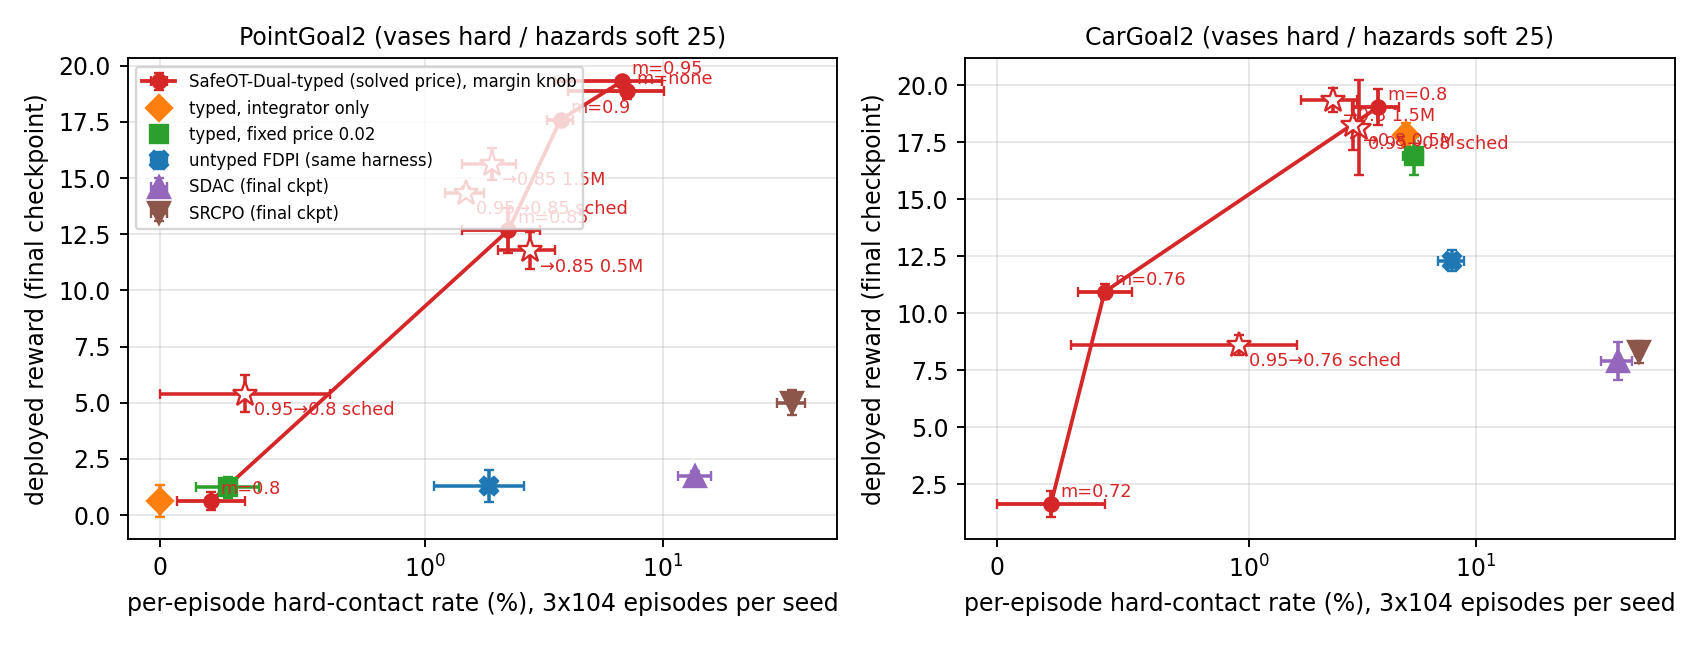
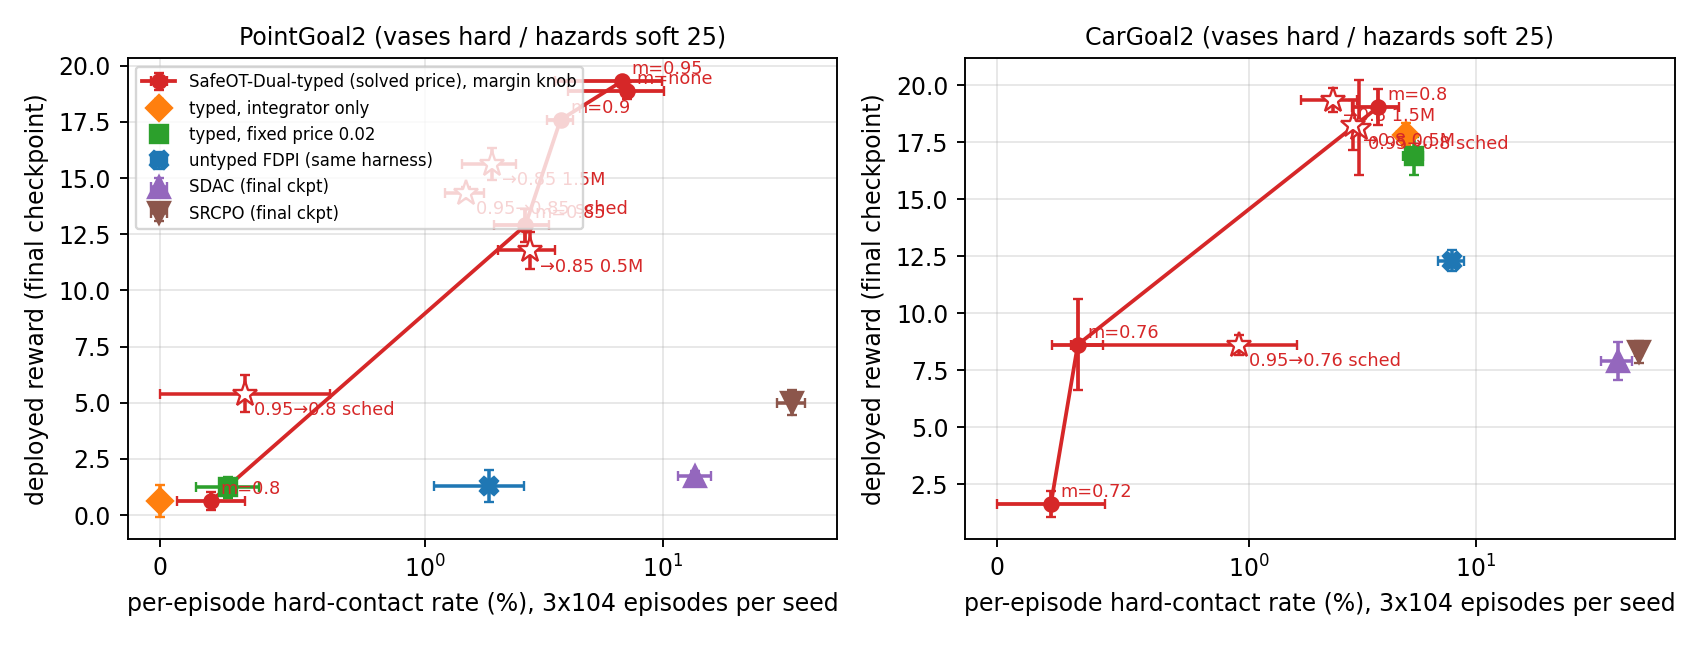
fix(dashboard): align SafeOT claims with verified repair evidence
Refs: T-1484

diff --git a/sotd_gap_plan.md b/sotd_gap_plan.md
@@ -1,4 +1,4 @@
-# SafeOT-Dual 差距与解决办法（2026-09-08T21:51:11+08:00）
+# SafeOT-Dual 差距与解决办法（2026-09-08T22:22:06+08:00）
 
 ## G1 统一多类 SafeRL：一个旋钮一条前沿
 - 验收：✓ PG1 clip 曲线 ≥5 点且 ε 曲线 ≥4 点（n≥3）；✓ CG1 clip 曲线 ≥5 点且 ε 曲线 ≥4 点（n≥3）；✓ PB1 clip 曲线 ≥5 点且 ε 曲线 ≥4 点（n≥3）；✓ 速度套件 ≥3 任务有 clip 曲线 ≥3 点；✓ 三导航任务的完整旋钮曲线另有 ≥3 种子终档评测
@@ -18,11 +18,11 @@
 
 ## G3 异构多约束（硬 + 软）上的 SOTA
 - 验收：✓ 探索性均值比较：CG2 高于历史 SDAC 回报且硬违规率更低；✓ 探索性均值比较：PG2 高于历史 SRCPO 回报且硬违规率更低；✓ PG2 终档观测目标：回报 ≥10 且硬泄漏 ≤2%，且各种子软预算满足；✗ CG2 终档观测目标：硬泄漏 ≤0.5% 且回报 ≥12，且各种子软预算满足；✗ 关键行 n≥5（PG2 m0.85、CG2 m0.76）；✗ PG2/CG2 高回报点逐种子硬风险 95% 上界也低于目标；✗ SOTA 结论有同协议基线、软预算与置信区间的完整复核
-- 差距：已有候选改善，SOTA 完整复核仍待完成。PG2 筛选点 15.6 @ 1.9% 观测硬违规率；CG2 低违规侧筛选点 10.9 @ 0.4%。观测均值达标不等于逐种子风险上界达标。
+- 差距：已有候选改善，SOTA 完整复核仍待完成。PG2 筛选点 15.6 @ 1.9% 观测硬违规率；CG2 低违规侧筛选点 8.6 @ 0.3%。观测均值达标不等于逐种子风险上界达标。
 - 原因：雷达边距阈值是单一旋钮：阈值紧则泄漏低但回报掉，阈值松则相反；固定阈值拿不到两头。
 - 解决办法：边距日程（0.95 起、前 0.5–1.5M 步线性收紧到目标阈值）：44 个 run 在 mainskill GPU 0/3/5/7（含 PG2 0.82/0.83、CG2 0.77/0.78 对冲网格），已完成 38；本机 GPU 补 PG2 m0.85/0.9、CG2 m0.76/0.72、prox40/prox20 的种子 4-5（n=5）。DONE 后自动严格评测（312 集/种子）。
 - 预计：日程 run 判决 09-08 晚—09-09 早；种子 4-5 09-09 早。
-- 证据：CG2 lp 19.0 @ 3.7% (n=5) vs SDAC 7.9 @ 42.0%；PG2 m0.85 12.7 @ 2.2% (n=3) vs SRCPO 5.0 @ 35.0%
+- 证据：CG2 lp 19.0 @ 3.7% (n=5) vs SDAC 7.9 @ 42.0%；PG2 m0.85 12.9 @ 2.6% (n=4) vs SRCPO 5.0 @ 35.0%
 
 ## G4 SafeVLA 范式内的安全学习（价格换源 vs PPO-Lag）
 - 验收：✗ seed 0 两臂有新鲜进程与训练进展记录；✓ seed 0 两臂 ≥1M 总步数；✗ seed 0 两臂完成 20万预热 + 200万 RL，终档存在；✗ 第 2 个种子两臂 ≥1M 总步数；✗ 配对终档评测（同种子、同单位）
@@ -50,9 +50,9 @@
 | G2 | PointButton1 10M（5090） | done | 12/12 完成，0 有未完成训练日志，0 尚无进展；进程存活未由本表核验 | 完成 |
 | G3 | typed 边距日程对冲网格（mainskill） | done | 12/12 完成，0 有未完成训练日志，0 尚无进展；进程存活未由本表核验 | 完成 |
 | G3 | typed 边距日程（自 30109 迁入）（mainskill） | run | 26/30 完成，0 有未完成训练日志，4 尚无进展；进程存活未由本表核验 | 产物进度粗估 12 h，需资源可用 |
-| G3 | typed 前沿行种子 4-5（30109） | run | 6/8 完成，2 有未完成训练日志，0 尚无进展；进程存活未由本表核验 | 产物进度粗估 1 h，需资源可用 |
-| G3/G5 | typed 接近预算点种子 4-5（30109） | run | 2/4 完成，2 有未完成训练日志，0 尚无进展；进程存活未由本表核验 | 产物进度粗估 1 h，需资源可用 |
-| G3/G5 | 边距日程 × FDPI pf：1–2 种子配置筛选（30109） | run | 0/6 完成，6 有未完成训练日志，0 尚无进展；进程存活未由本表核验 | 产物进度粗估 11 h，需资源可用 |
+| G3 | typed 前沿行种子 4-5（30109） | run | 6/8 完成，2 有未完成训练日志，0 尚无进展；进程存活未由本表核验 | 产物进度粗估 0 h，需资源可用 |
+| G3/G5 | typed 接近预算点种子 4-5（30109） | run | 2/4 完成，2 有未完成训练日志，0 尚无进展；进程存活未由本表核验 | 产物进度粗估 0 h，需资源可用 |
+| G3/G5 | 边距日程 × FDPI pf：1–2 种子配置筛选（30109） | run | 0/6 完成，6 有未完成训练日志，0 尚无进展；进程存活未由本表核验 | 产物进度粗估 10 h，需资源可用 |
 | G4 | SafeVLA 两臂 × 2 种子（mainskill） | run | armA_ppolag_s0 2.01M 总步数 [训练中]（训练日志近10窗口的集均成本 0.81 / 成功率 0.84）；armA_ppolag_s1 0.00M 总步数 [失败]；armB_sotd_s0 1.93M 总步数 [失败]（训练日志近10窗口的集均成本 0.99 / 成功率 0.87）；armB_sotd_s1 0.00M 总步数 [失败] | 完整目标 220万总步数；受阻任务不推算完成时间 |
 | G3/G5 | 9 个已训练 proximity 模型终档补评 | done | 9/9 完成；缺失/失败显式保留。 | 每模型 312 集 |
 | G3/G4/G5 | 终止事件独立组件检查 | done | 独立组件 9 项检查，ε/预算组合 25/25 通过。保留终止成本，拒绝不存在的安全等待动作；解析小问题，不计入 SafeRL/SOTA 结果。 | 以产物为准 |
